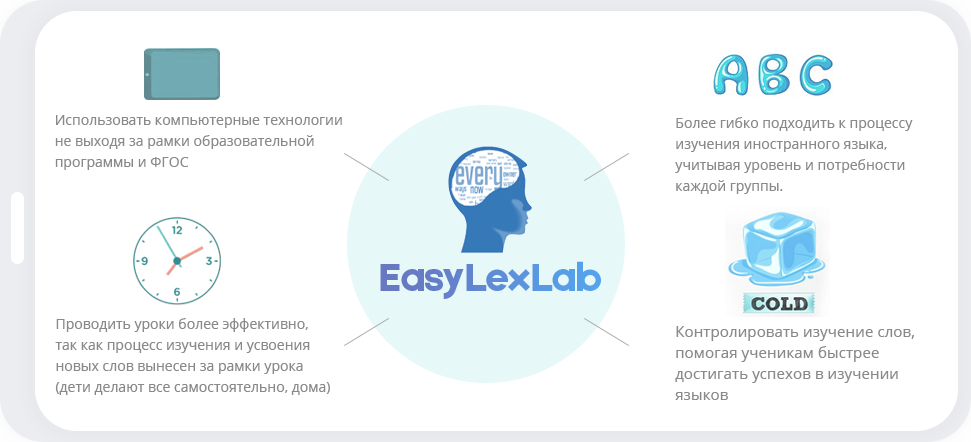
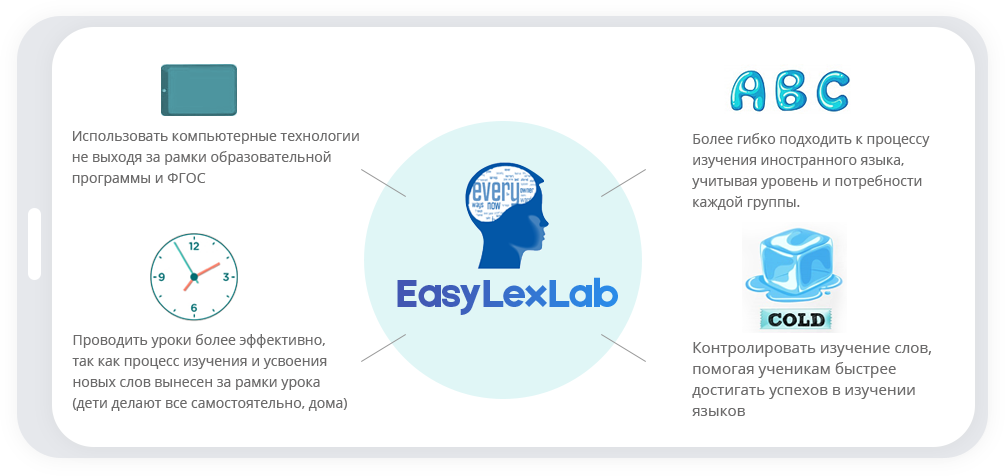
some more kostyls for landing

diff --git a/server/app/components/Home.vue b/server/app/components/Home.vue
@@ -202,7 +202,8 @@
       <!-- Start of the fourth section -->
       <section class="section section--fourth">
 
-        <div class="container box advantages">
+        <div class="container advantages">
+          <img class="col-lg-12 col-md-12 col-sm-12 col-xs-12" src="../pics/tablet.png">
         </div>
 
         <div class="container center-content">
@@ -390,18 +391,11 @@ export default {
 }
 
 .advantages {
-  height: 70vh;
-  border-radius: 20px;
-  /* padding: 20px 10px; */
-  background: url('../pics/tablet.png') 50% 50% no-repeat;
-  background-size: cover;
-} 
-/* .advantages .advantage {
-  display: flex;
-  flex-direction: column;
-  align-items: center;
-  justify-content: center;
-} */
+  min-height: 1px;
+  overflow: hidden;
+} .advantages img {
+  transform: scale(1.1);
+}
 
 .footer {
   display: flex;
@@ -443,6 +437,7 @@ export default {
 }
 
 .center-content {
+  margin-top: 30px;
   background: url('../pics/last.png') 50% 0% no-repeat;
   background-size: contain;
   display: flex;
